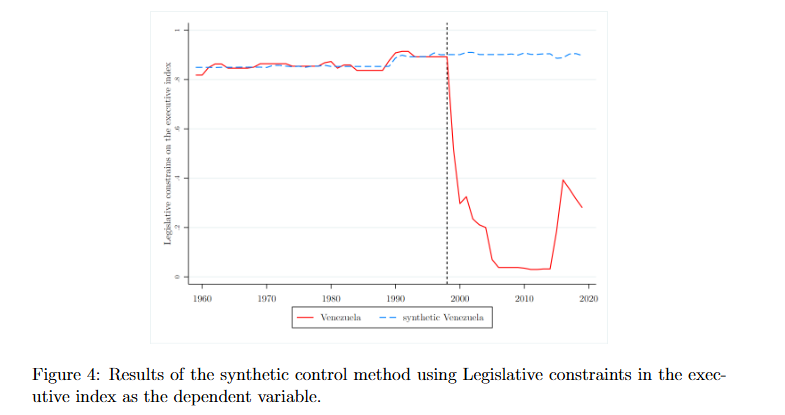
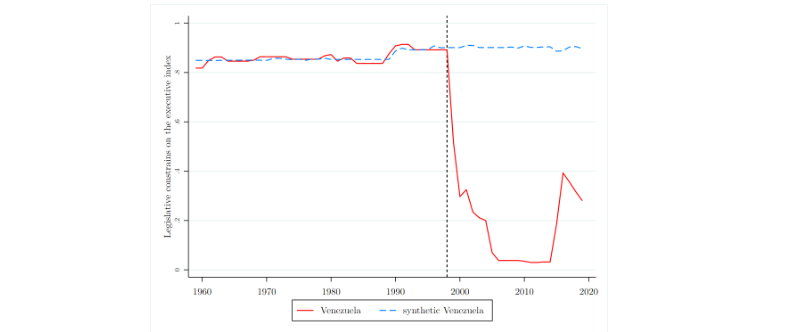
Updating projects section

diff --git a/src/data/projects.js b/src/data/projects.js
@@ -3,18 +3,70 @@ const data = [
   {
     title: 'The Crisis of Divided Government: The Effect of Democratic Backsliding on Legislative Oversight in Venezuela',
     link: 'https://github.com/pablohernandezb/the-crisis-of-divided-government',
+    legend: 'Result from the Synthetic Control Method experiment on Legislative constraints in the executive index in Venezuela (1959-2021); the treatment year is 1998.',
     image: '/images/projects/project_crisis_divided_govt.png',
     date: '2023-04-01',
-    desc:
-      'Using the V-Dem Project dataset, and Synthetic Control Method (SMC).',
+    overview: 'This project examines the dynamics between the executive and the legislature during democratic backsliding, '
+     + 'specifically focusing on Venezuela. It investigates how legislative constraints on the executive branch are affected '
+     + 'during episodes of democratic breakdown and regressed autocracy. The study reveals '
+     + 'how aspiring autocrats diminish legislative constraints and alter executive-legislative relations. It aims to determine'
+     + 'and quantify the decline of legislative constraints and their sub-components during democratic backsliding.',
+    dataset: [
+      'This project primarily uses data from the Varieties of Democracy (V-Dem) project and the Episodes of Regime Transition (ERT) datasets.',
+      'The V-Dem dataset provides panel data on democratization and autocratization processes, including measurements of democracy and executive-legislative relations.',
+      'The resulting dataset includes 37 countries from 1959 to 2019.',
+    ],
+    tech: [
+      'This project relays mainly on the Synthetic Control Method (SCM),',
+      'This method involves constructing a "synthetic" Venezuela, a combination of other countries that closely resembles Venezuela in political, social, and economic aspects before the onset of democratic backsliding.',
+      'The SCM is used to compare the actual post-treatment outcomes in Venezuela with the counterfactual outcomes that would have been expected had the democratic backsliding not occurred',
+    ],
+    challenges: [
+      'One of the main limitations is the difficulty of finding countries similar to Venezuela during the period of study. The V-Dem project datasets helped overcome the issue of not having data that could be collected on the field.',
+      'The timeframe from this project wass less than six month, which shrunk the expectation of doing field work but opened the opportunity for causal inferences approaches such as SCM.',
+    ],
+    retrospective: [
+      'With a more mixed-method approach, this project could be enriched in a future phase with in-depth case studies in other latitudes such as Hungary in Europe.',
+      'Another limitation and opportunity for future research should be focused on comparing the four different legislatures (2000-2006, 2006-2011, 2011-2016, and 2016-2021) during the historical period known as Bolivarian Revolution when Chávez came to power in 1998',
+      'I produced research results relying on computer and curated dataset at a fast-paced which allowed me to comply with the time restrictions.',
+    ],
   },
   {
     title: 'The Long Trace of Oil Money: A Social Network Analysis of corruption during the Bolivarian Revolution in Venezuela',
     link: 'https://github.com/pablohernandezb/the-long-trace-of-oil-money',
     image: '/images/projects/project_long_trace.png',
+    legend: 'Graphical representation of the corruption network in Venezuela: On the left, '
+     + 'corruption networks by actors with international trials; red nodes have trials '
+     + 'while blue not. Size of the nodes indicates the number of countries they operate. '
+     + 'On the right, corruption groups by edge betweenness and the relations between them.',
     date: '2021-05-01',
-    desc:
-      'Using the Chavismo.inc dataset gathered by a team lead by Transparencia Venezuela.',
+    overview: 'It uses social network analysis (SNA) to identify key actors and the resilience of these networks. '
+      + 'The study aims to provide knowledge on how these connections are formed and propose policy reforms to hinder their formation. '
+      + 'The object of this project has both academic and political implications. '
+      + 'It tests theoretical expectations of SNA in the context of corruption networks. '
+      + 'The study assesses the international community\'s behavior in disrupting corruption networks, comparing it to the US\'s behavior.',
+    dataset: [
+      'The primary data source is the Transparency International (2020) report, "Chavismo Inc.", in collaboration with Alianza Rebelde Investiga (ARI) and CONNECTAS.',
+      'The report covers 86 cases of investigation across 61 countries, involving 751 agents (persons of interest) and 239 institutions.',
+      'The social network includes over 3,900 relationships, including occupied functions, corruption denunciations, enablers, family ties, business connections, international trials, company connections, sanctions, contracts, friendships, student connections, enemies, company integration, human rights violations, and designations by public officials.',
+    ],
+    tech: [
+      'The research employs the Statnet package in R and associated libraries for network analysis.',
+      'Techniques for assessing and disrupting dark networks are used, drawing from the sub-discipline within Social Network Analysis (SNA).',
+      'Quadratic Assignment Procedure (QAP) and logistic regression are used to determine tie formation and the likelihood of international or US trials for corruption.',
+      'Factor analysis is employed on centrality measurements.',
+    ],
+    challenges: [
+      'Data limitations are a significant challenge when studying dark networks.',
+      'The hidden nature of corruption networks makes it difficult to assess their organization and power distribution.',
+      'The study seeks to fill the gap in determining the actual brokers of the network and delving into its functioning.',
+      'Addresses the need to move beyond descriptive analysis based on observational data and centrality measurements to draw causal links.',
+    ],
+    retrospective: [
+      'Learned that measuring prestige using cutpoint strength and brokerage level in addition to centrality offers a more precise method to determine the most important actors within the network.',
+      'More data is needed to better characterize the actors. A more holistic approach that includes different measures.',
+      'A potential gap to fill in future studies relates to the social dimension, given the limited data on friends, enemies, and student colleagues within the network.',
+    ],
   },
 ];
 

diff --git a/src/components/Projects/Cell.js b/src/components/Projects/Cell.js
@@ -7,18 +7,69 @@ const Cell = ({ data }) => (
     <article className="mini-post">
       <header>
         <h3>
-          <a href={data.link}>{data.title}</a>
+          {data.title}
         </h3>
         <time className="published">
           {dayjs(data.date).format('MMMM, YYYY')}
         </time>
       </header>
-      <a href={data.link} className="image">
-        <img src={`${process.env.PUBLIC_URL}${data.image}`} alt={data.title} />
-      </a>
-      <div className="description">
-        <p>{data.desc}</p>
-      </div>
+      <figure>
+        <a href={data.link} className="image">
+          <img src={`${process.env.PUBLIC_URL}${data.image}`} alt={data.title} />
+          <div className="img__description_layer">
+            <p className="img__description">Got to GitHub repository</p>
+          </div>
+        </a>
+        <figcaption className="figcaption">
+          {data.legend}
+        </figcaption>
+      </figure>
+      <h3>
+        Overview
+      </h3>
+      <p>
+        {data.overview}
+      </p>
+      <h3>
+        Data
+      </h3>
+      {data.dataset ? (
+        <ul className="points">
+          {data.dataset.map((datasetp) => (
+            <li key={datasetp}>{datasetp}</li>
+          ))}
+        </ul>
+      ) : null}
+      <h3>
+        Technologies &amp; Methods
+      </h3>
+      {data.tech ? (
+        <ul className="points">
+          {data.tech.map((techp) => (
+            <li key={techp}>{techp}</li>
+          ))}
+        </ul>
+      ) : null}
+      <h3>
+        Challenges &amp; Opportunities
+      </h3>
+      {data.challenges ? (
+        <ul className="points">
+          {data.challenges.map((challengesp) => (
+            <li key={challengesp}>{challengesp}</li>
+          ))}
+        </ul>
+      ) : null}
+      <h3>
+        Retrospective
+      </h3>
+      {data.retrospective ? (
+        <ul className="points">
+          {data.retrospective.map((retrospectivep) => (
+            <li key={retrospectivep}>{retrospectivep}</li>
+          ))}
+        </ul>
+      ) : null}
     </article>
   </div>
 );
@@ -28,8 +79,13 @@ Cell.propTypes = {
     title: PropTypes.string.isRequired,
     link: PropTypes.string,
     image: PropTypes.string.isRequired,
+    legend: PropTypes.string.isRequired,
     date: PropTypes.string.isRequired,
-    desc: PropTypes.string.isRequired,
+    overview: PropTypes.string.isRequired,
+    dataset: PropTypes.string.isRequired,
+    tech: PropTypes.string.isRequired,
+    challenges: PropTypes.string.isRequired,
+    retrospective: PropTypes.string.isRequired,
   }).isRequired,
 };
 

diff --git a/src/static/css/components/_mini-post.scss b/src/static/css/components/_mini-post.scss
@@ -44,7 +44,6 @@
   @include vendor("display", "flex");
   @include vendor("flex-direction", "column");
   background: _palette(bg);
-  border: solid 1px _palette(border);
   margin: 0 0 _size(element-margin);
 
   .image {
@@ -62,8 +61,40 @@
     &:hover {
       img {
         @include vendor("transform", "scale(1.05)");
+        filter: brightness(30%)
+      }
+      .img__description_layer {
+        visibility: visible;
+        opacity: 1;
+      }
+      .img__description {
+        transform: translateY(0);
       }
     }
+  }
+
+  .img__description_layer {
+    position: absolute;
+    top: 0;
+    bottom: 0;
+    left: 0;
+    right: 0;
+    background: rgba(0, 0, 0, 0.6);
+    color: #fff;
+    visibility: hidden;
+    opacity: 0;
+    display: flex;
+    align-items: center;
+    justify-content: center;
+  
+    /* transition effect. not necessary */
+    transition: opacity .2s, visibility .2s;
+  }
+
+  .img__description {
+    transition: .2s;
+    transform: translateY(1em);
+    font-size: 25pt;
   }
 
   header {
@@ -74,13 +105,13 @@
     @include vendor("flex-grow", "1");
 
     h3 {
-      font-size: 0.7em;
+      font-size: 0.9em;
     }
 
     .published {
       display: block;
       font-family: _font(family-heading);
-      font-size: 0.6em;
+      font-size: 0.8em;
       font-weight: _font(weight-heading);
       letter-spacing: _font(kerning-heading);
       margin: -0.625em 0 (_size(element-margin) * 0.85) 0;
@@ -91,6 +122,13 @@
       position: absolute;
       right: 2em;
       top: 2em;
+    }
+  }
+  figure{
+    margin-bottom: 20px;
+
+    figcaption {
+      font-size: 80%;
     }
   }
 }

diff --git a/src/pages/Projects.js b/src/pages/Projects.js
@@ -2,6 +2,7 @@ import React from 'react';
 import { Link } from 'react-router-dom';
 
 import Main from '../layouts/Main';
+import ScrollToTopButton from '../components/Template/ScrollToTopButton';
 
 import Cell from '../components/Projects/Cell';
 import data from '../data/projects';
@@ -20,6 +21,7 @@ const Projects = () => (
       {data.map((project) => (
         <Cell data={project} key={project.title} />
       ))}
+      <ScrollToTopButton />
     </article>
   </Main>
 );
